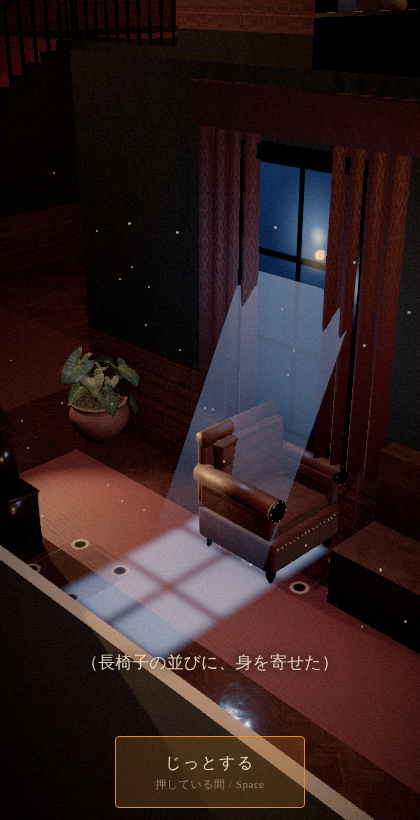
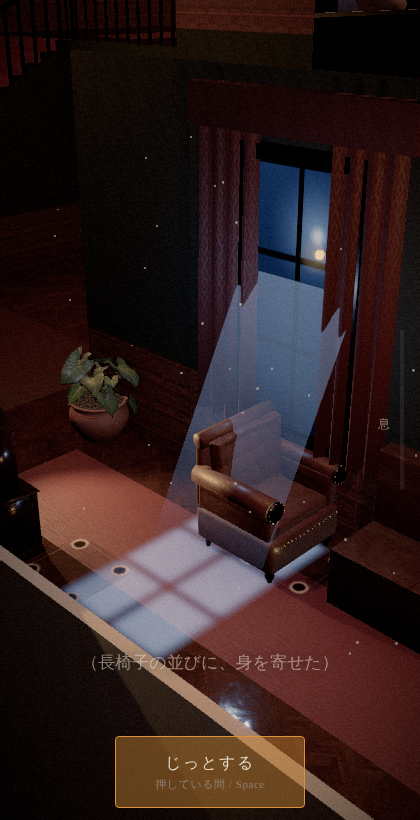
続きから：女中の出発点がやり直すたびずれていたのを直し、近くの女中は道筋の遠い端へ下げる。歩く夜も息を殺せば灯りを凌げる（息が続く限り）
Claude-Session: https://claude.ai/code/session_01CjhnmbmvXEUHaMUUdr47DY

diff --git a/src/loop.js b/src/loop.js
@@ -32,7 +32,8 @@ export function update(now){
   if(S.state==="caught"){ S.ts+=dt; S.w=Math.max(0,S.w-dt*3); S.dark=Math.max(0,S.dark-dt*0.6); if(S.ts>2.6) finish(true); }
   // breath
   if(S.gaspCd>0){ S.gaspCd-=dt; S.hold=false; }
-  if(S.hold&&S.state!=="walk"){ S.lung=Math.min(1,S.lung+dt/7); if(S.lung>=1){ S.lung=0; S.gaspCd=1.6; gasp(); if(S.state!=="result"){ addSus(sitting?28:8,"息漏れ"); say("（堪え切れず、大きく息が漏れた）"); } } }
+  if(S.hold&&S.state==="walk"){ S.lung=Math.min(1,S.lung+dt/6); if(S.lung>=1){ S.lung=0; S.gaspCd=1.6; gasp(); creak(); heard(); say("（堪え切れず、はっ、と息が漏れた）"); } }
+  else if(S.hold&&S.state!=="walk"){ S.lung=Math.min(1,S.lung+dt/7); if(S.lung>=1){ S.lung=0; S.gaspCd=1.6; gasp(); if(S.state!=="result"){ addSus(sitting?28:8,"息漏れ"); say("（堪え切れず、大きく息が漏れた）"); } } }
   else { if(S.lung>0.15&&S.lungWas>=0.15&&!S.hold&&S.exhaled!==true){ } S.lung=Math.max(0,S.lung-dt/3); }
   if(!S.hold&&S.lungWas>0.5&&S.lung<=0.5) exhale();
   S.lungWas=S.lung;

diff --git a/src/style.css b/src/style.css
@@ -6,7 +6,7 @@ body{margin:0;background:var(--bg);color:var(--fg);font-family:var(--mincho);ove
 #w[hidden],#seam[hidden]{display:none}
 #seam{position:fixed;inset:0;width:100%;height:100%;pointer-events:none;opacity:0}
 #wfade{position:fixed;inset:0;background:#000;opacity:0;pointer-events:none;transition:opacity .2s}
-body.walking #bal,body.walking #lung,body.walking #lunglabel,body.walking #sus,body.walking #suslabel{visibility:hidden}
+body.walking #bal,body.walking #sus,body.walking #suslabel{visibility:hidden}
 .hud{position:fixed;left:0;right:0;pointer-events:none}
 #sus{top:0;height:5px;background:rgba(255,255,255,.07)}
 #sus i{display:block;height:100%;width:0;background:var(--red);transition:width .25s}
